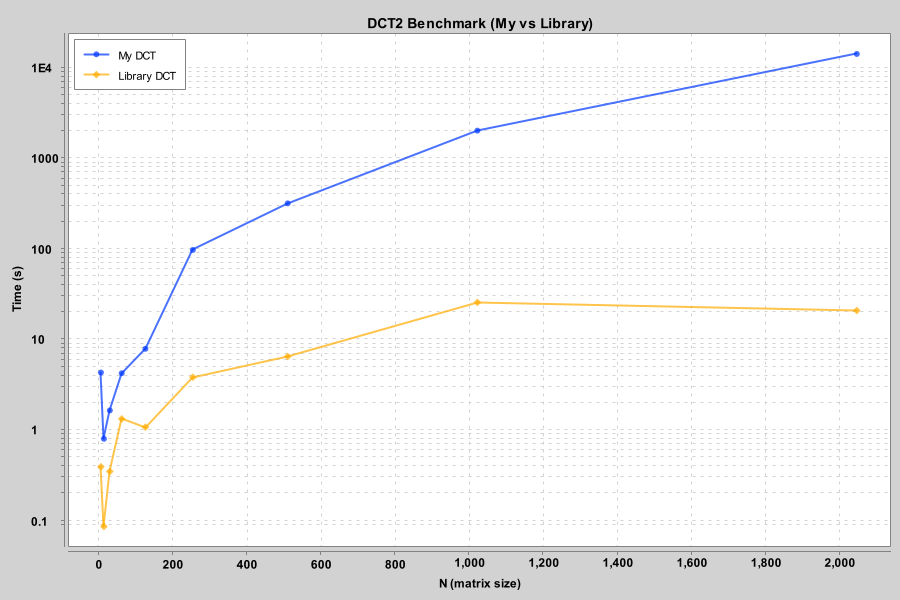
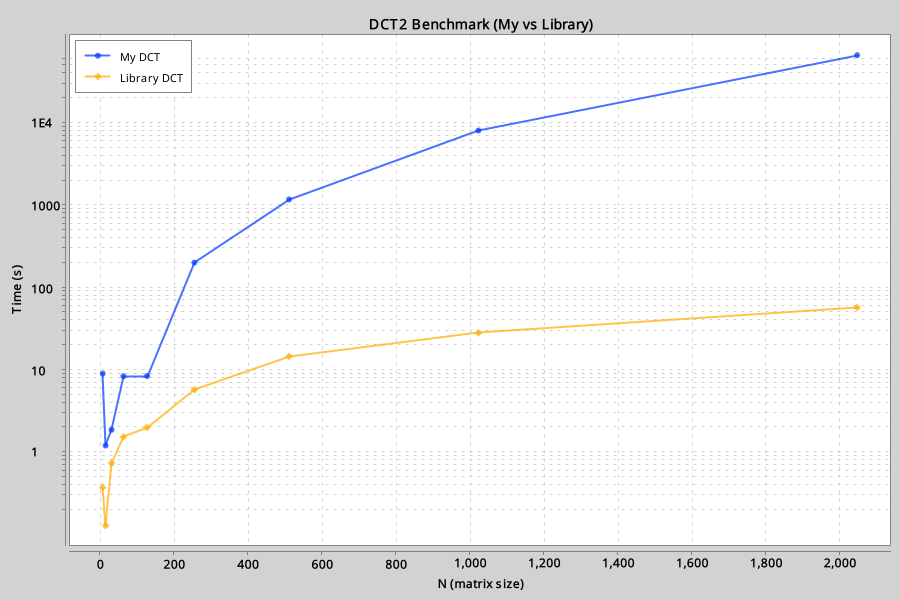
Removed useless matrix types conversion

diff --git a/src/main/java/com/example/assignment/Part2.java b/src/main/java/com/example/assignment/Part2.java
@@ -1,13 +1,9 @@
 package com.example.assignment;
 
-import com.example.constants.UtilsConstants;
-import com.example.lib.utils.ArrayUtils;
+import com.example.lib.utils.UtilsConstants;
 import org.apache.commons.math3.util.Pair;
 import org.jtransforms.dct.DoubleDCT_2D;
-
 import java.awt.image.BufferedImage;
-
-import static com.example.lib.utils.ArrayUtils.toDoubleArray;
 import static com.example.lib.utils.ImageUtils.*;
 
 /**
@@ -41,7 +37,7 @@ public class Part2 {
      */
     public BufferedImage compress(Pair<String, BufferedImage> imageInfo, int F, int d) {
         BufferedImage image = imageInfo.getSecond();
-        int[][] signal = convertImageToArray(image);
+        double[][] signal = convertImageToArray(image);
 
         int rows = signal.length - signal.length % F;
         int cols = signal[0].length - signal[0].length % F;
@@ -76,18 +72,15 @@ public class Part2 {
      * @param F      block size
      * @param d      frequency cutoff parameter
      */
-    private static void compressBlock(int[][] signal, int i, int j, int F, int d) {
+    private static void compressBlock(double[][] signal, int i, int j, int F, int d) {
 
-        double[][] block;
-        int[][] integerBlock = new int[F][F];
+        double[][] block = new double[F][F];
 
         DoubleDCT_2D dct = new DoubleDCT_2D(F, F);
 
         for (int k = 0; k < F; k++) {
-            System.arraycopy(signal[i + k], j, integerBlock[k], 0, F);
+            System.arraycopy(signal[i + k], j, block[k], 0, F);
         }
-
-        block = toDoubleArray(integerBlock);
 
         dct.forward(block, true);
 
@@ -101,12 +94,27 @@ public class Part2 {
 
         dct.inverse(block, true);
 
-        int[][] rounded = ArrayUtils.toIntArray(block);
-
-        ArrayUtils.shiftBlockBy255(rounded);
+        shiftBlockBy255(block);
 
         for (int k = 0; k < F; k++) {
-            System.arraycopy(rounded[k], 0, signal[i + k], j, F);
+            System.arraycopy(block[k], 0, signal[i + k], j, F);
+        }
+    }
+
+    /**
+     * Clamps all values in a 2D integer array to the range {@code [0, 255]}.
+     * <p>
+     * This method is typically used to ensure pixel values remain within the valid
+     * byte range after image processing operations.
+     * </p>
+     *
+     * @param block the 2D integer array to clamp; modified in-place
+     */
+    public static void shiftBlockBy255(double[][] block) {
+        for (int y = 0; y < block.length; y++) {
+            for (int x = 0; x < block[0].length; x++) {
+                block[y][x] = Math.round(Math.max(0, Math.min(255, block[y][x])));
+            }
         }
     }
 }

diff --git a/src/main/java/com/example/lib/utils/ImageUtils.java b/src/main/java/com/example/lib/utils/ImageUtils.java
@@ -6,7 +6,7 @@ import java.awt.image.BufferedImage;
 import java.io.File;
 import java.io.IOException;
 
-import static com.example.constants.UtilsConstants.*;
+import static com.example.lib.utils.UtilsConstants.*;
 
 /**
  * Utility methods for image conversion, duplication, and persistence.
@@ -37,14 +37,14 @@ public class ImageUtils {
      * @param img source image (expected grayscale; channel 0 is read)
      * @return padded matrix of pixel samples where {@code signal[y][x]} is the sample at {@code (x, y)}
      */
-    public static int[][] convertImageToArray(BufferedImage img){
+    public static double[][] convertImageToArray(BufferedImage img){
         int origWidth = img.getWidth();
         int origHeight = img.getHeight();
 
         int width = (origWidth % 8 == 0) ? origWidth : (origWidth / 8 + 1) * 8;
         int height = (origHeight % 8 == 0) ? origHeight : (origHeight / 8 + 1) * 8;
 
-        int[][] signal = new int[height][width];
+        double[][] signal = new double[height][width];
 
         for (int y = 0; y < height; y++) {
             for (int x = 0; x < width; x++) {
@@ -71,7 +71,7 @@ public class ImageUtils {
      * @param signal image samples matrix where {@code signal[y][x]} is the sample at {@code (x, y)}
      * @return grayscale image with matrix width/height
      */
-    public static BufferedImage convertArrayToImage(int[][] signal) {
+    public static BufferedImage convertArrayToImage(double[][] signal) {
 
         int height = signal.length;
         int width = signal[0].length;
@@ -180,7 +180,7 @@ public class ImageUtils {
      * Saves a {@link BufferedImage} as a BMP file on disk.
      * <p>
      * The method appends {@code ".bmp"} to the provided path, writes the file via
-     * {@link ImageIO#write(java.awt.image.RenderedImage, String, File)}, and prints
+     * {@link ImageIO#write(java.awt.image.ReintnderedImage, String, File)}, and prints
      * the absolute output path to standard output.
      * </p>
      *

diff --git a/src/main/java/com/example/assignment/Part1.java b/src/main/java/com/example/assignment/Part1.java
@@ -1,7 +1,6 @@
 package com.example.assignment;
 
 import com.example.lib.DCT2;
-import com.example.constants.BenchmarkConstants;
 import com.example.lib.utils.OpenCsvUtils;
 import com.example.lib.utils.PlotUtils;
 import org.apache.commons.logging.Log;
@@ -11,8 +10,6 @@ import org.jtransforms.dct.DoubleDCT_2D;
 
 import java.util.ArrayList;
 import java.util.List;
-
-import static com.example.lib.utils.ArrayUtils.*;
 import static com.example.lib.utils.Timer.measure;
 
 /**
@@ -87,8 +84,8 @@ public class Part1 {
 
             double[][] matrix = randomMatrix(n);
 
-            double[][] copy1 = deepCopy(matrix);
-            double[][] copy2 = deepCopy(matrix);
+            double[][] copy1 = matrix.clone();
+            double[][] copy2 = matrix.clone();
 
             SimpleMatrix input = new SimpleMatrix(copy1);
 

diff --git a/src/main/java/com/example/lib/utils/OpenCsvUtils.java b/src/main/java/com/example/lib/utils/OpenCsvUtils.java
@@ -1,6 +1,6 @@
 package com.example.lib.utils;
 
-import com.example.constants.BenchmarkConstants;
+import com.example.assignment.BenchmarkConstants;
 import com.opencsv.CSVWriter;
 import org.apache.commons.logging.Log;
 import org.apache.commons.logging.LogFactory;

diff --git a/src/main/java/com/example/lib/utils/PlotUtils.java b/src/main/java/com/example/lib/utils/PlotUtils.java
@@ -9,7 +9,7 @@ import java.io.IOException;
 import java.util.logging.Level;
 import java.util.logging.Logger;
 
-import static com.example.constants.UtilsConstants.*;
+import static com.example.lib.utils.UtilsConstants.*;
 
 /**
  * Utility methods for building and exporting benchmark plots for the DCT comparison.

diff --git a/src/main/java/com/example/lib/utils/Timer.java b/src/main/java/com/example/lib/utils/Timer.java
@@ -1,6 +1,6 @@
 package com.example.lib.utils;
 
-import static com.example.constants.UtilsConstants.TIMED_RESULT_FORMAT;
+import static com.example.lib.utils.UtilsConstants.TIMED_RESULT_FORMAT;
 
 /**
  * Utility class for measuring and benchmarking operation execution times.